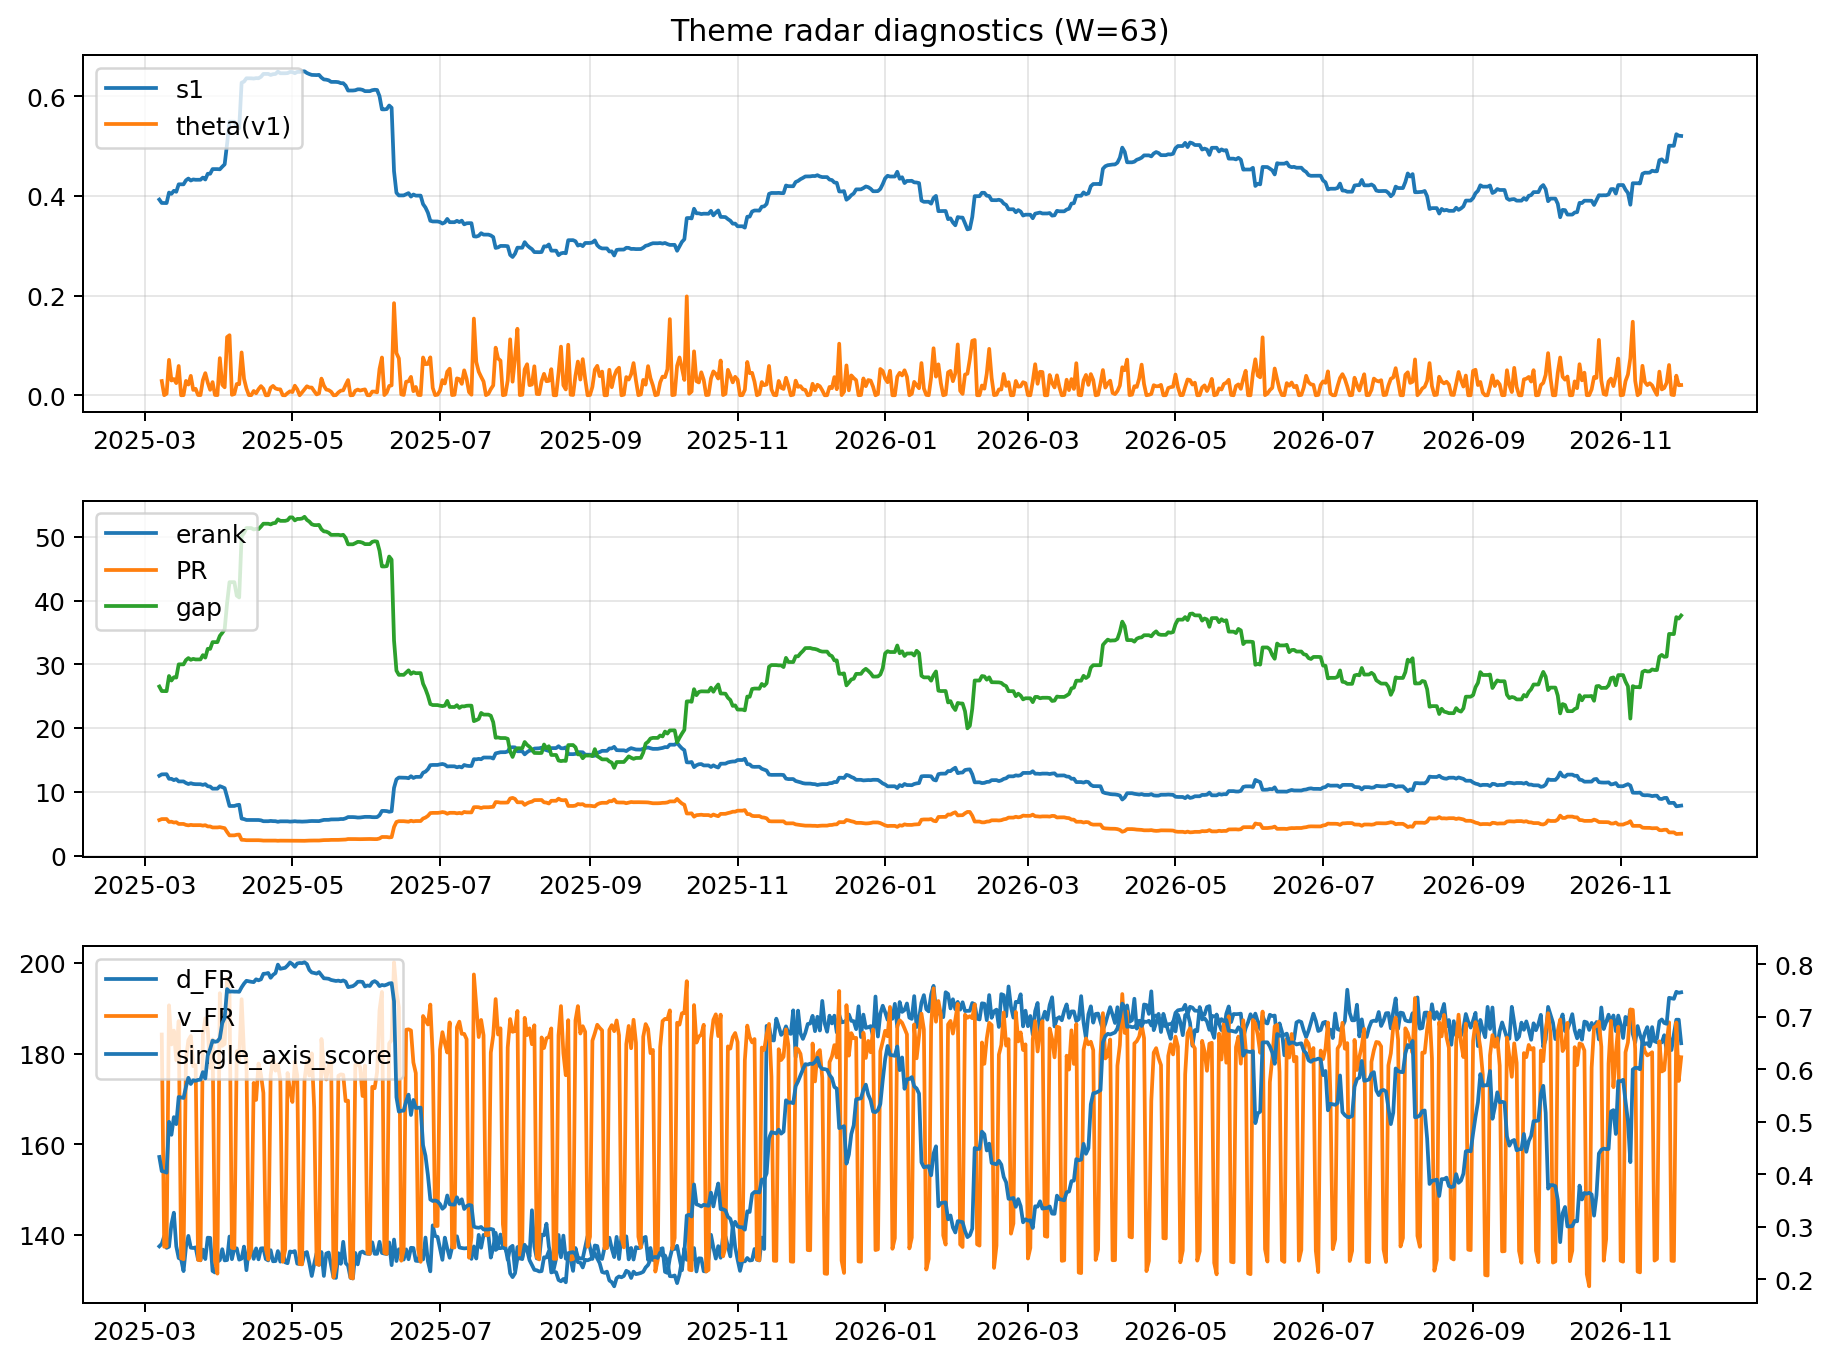
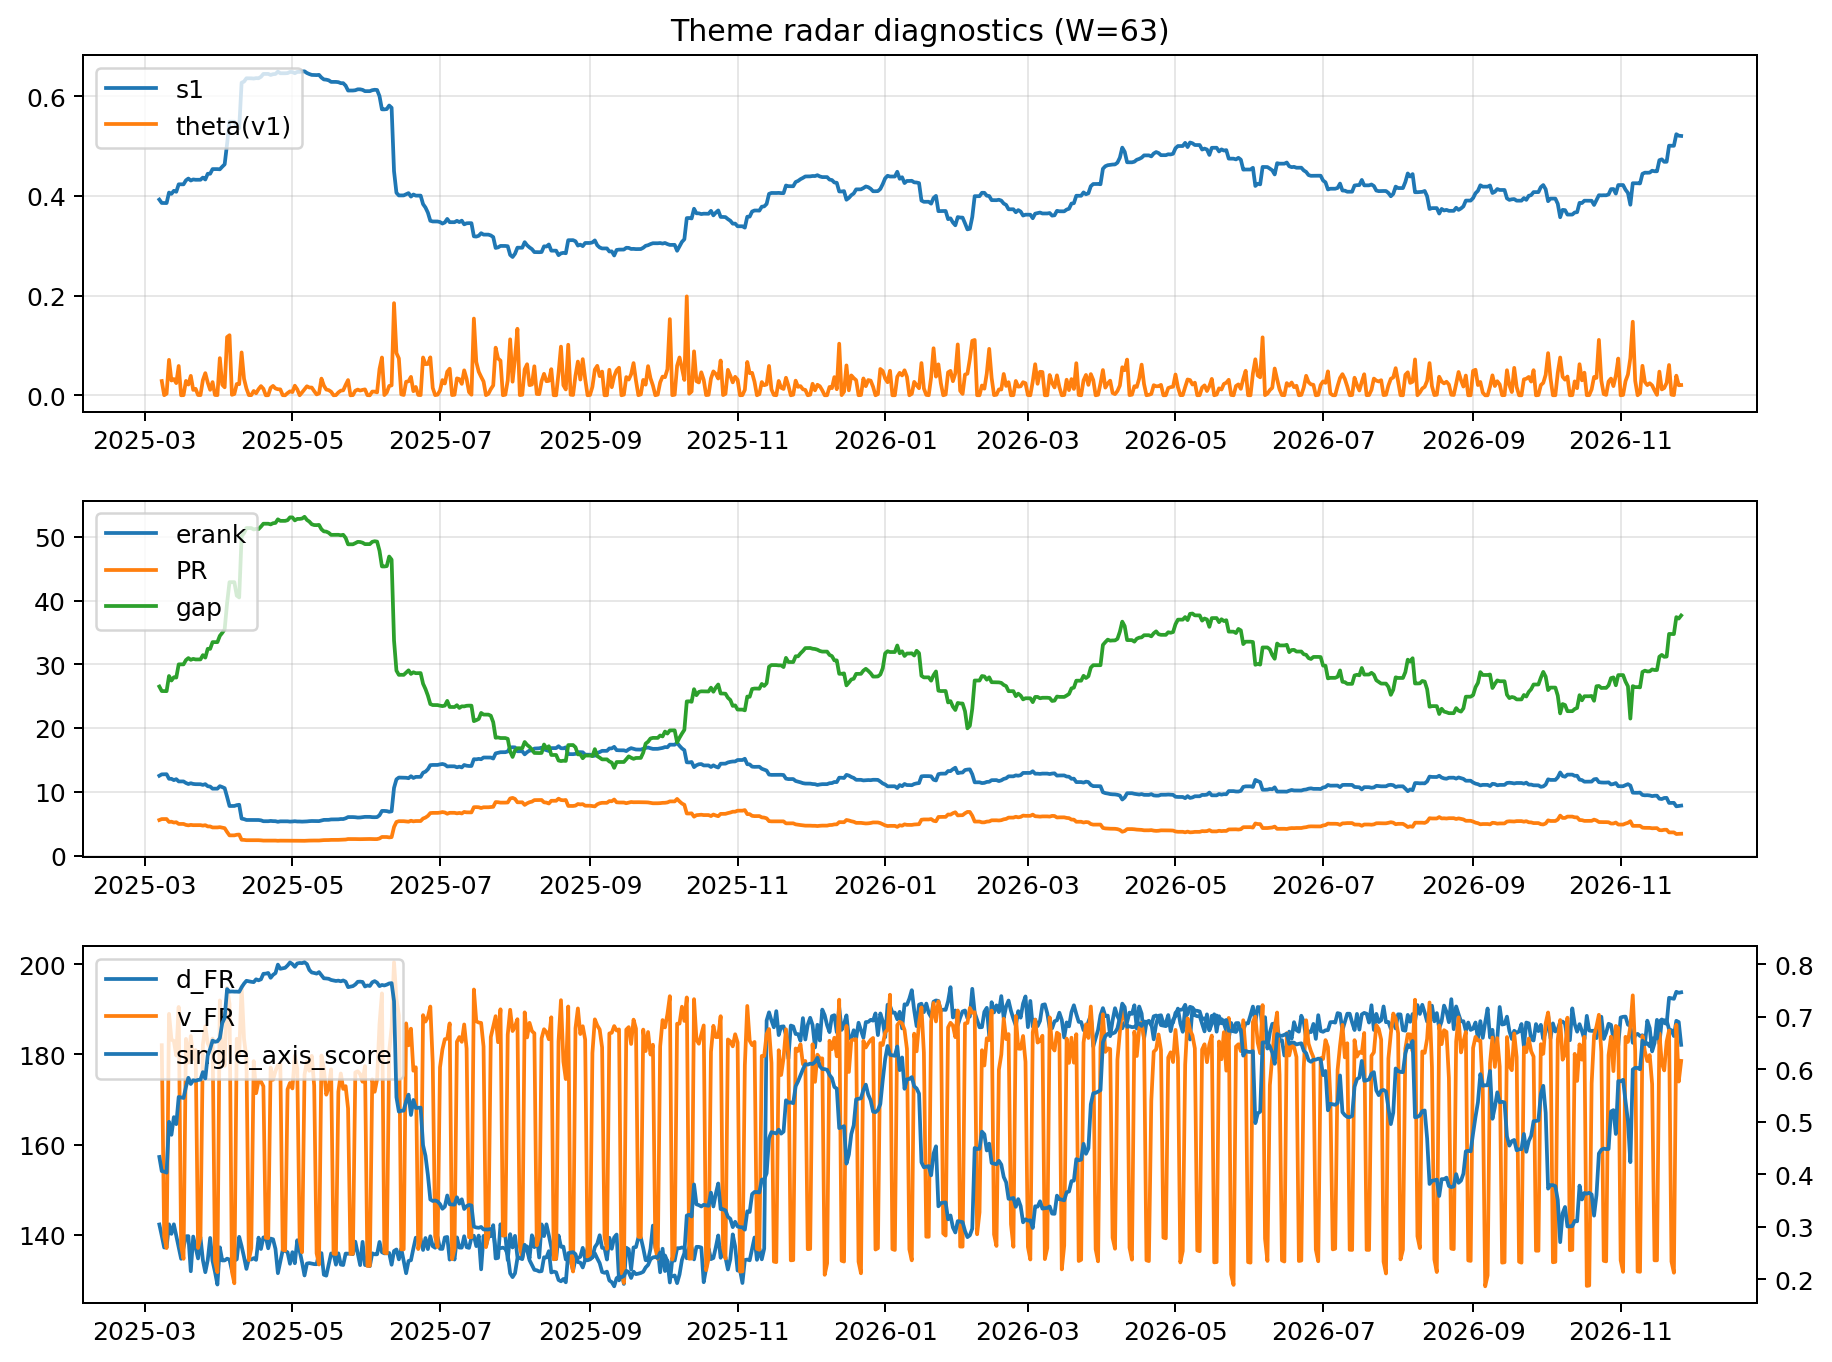
log: 2026-11-26 | sha256:f21f5bd53bf001a0000aec5a89c1dcd43aabc4e8a9bd99e3f085407e688dcbc3

diff --git a/logs/2026-11-26.md b/logs/2026-11-26.md
@@ -3,43 +3,43 @@
 ![diagnostic W63](../assets/diagnostic/2026-11-26_W63.png)
 
 ## Leaders (v1) — W=63
-- **Nuclear_Uranium** (0.0794950440103956)
-- Semis (0.070229667290702)
-- Space (0.0554257173159105)
+- **Nuclear_Uranium** (0.0794950440221388)
+- Semis (0.0702296673028385)
+- Space (0.055425717315974)
 
 ## Challengers — W=63
-**v2:** Rates (0.0996262015845754), Metals (0.071127502695963), Semis (0.0633036478513598)
-**v3:** Rates (0.1221911252030146), MegaCap_AI (0.0971850236464262), Nuclear_Uranium (0.0900451934916254)
+**v2:** Rates (0.099626199785991), Metals (0.0711275002091167), Semis (0.0633036452892279)
+**v3:** Rates (0.1221911232193158), MegaCap_AI (0.0971850219217293), Nuclear_Uranium (0.090045193515707)
 
 ## Migration (20D slope) — W=63
 **Top risers:**
-- axis_Rates: 0.0006898153880675
-- axis_Software_Cloud: 0.0003515435743002
-- axis_Drones_Autonomy: 0.000313939031406
-- axis_Metals: 0.0002588716455616
-- axis_Sector_Comm: 0.0002531512806993
-- axis_Cyber: 0.0002316346691913
-- axis_MegaCap_AI: 0.0002153970900265
-- axis_Defense: 0.0001822910757066
-- axis_Sector_Materials: 0.0001743726190987
-- axis_Sector_Fin: 0.0001499556261845
+- axis_Rates: 0.0006898153767307
+- axis_Software_Cloud: 0.0003515435348988
+- axis_Drones_Autonomy: 0.000313939017111
+- axis_Metals: 0.0002588716592967
+- axis_Sector_Comm: 0.0002531512786345
+- axis_Cyber: 0.0002316346393573
+- axis_MegaCap_AI: 0.0002153970634076
+- axis_Defense: 0.0001822910662596
+- axis_Sector_Materials: 0.0001743726247306
+- axis_Sector_Fin: 0.0001499556262592
 
 **Top fallers:**
-- axis_Sector_ConsStap: -0.0001234879633547
-- axis_DataCenter_Infra: -0.0001402992149159
-- axis_Robotics: -0.0001564294615826
-- axis_Space: -0.0001812709137195
-- axis_Credit: -0.0001955795940487
-- axis_Equity_US: -0.0002044361052856
-- axis_Quantum: -0.0002390843969645
-- axis_Commodities: -0.0003398464063018
-- axis_Semis: -0.000406035036596
-- axis_Genomics_Bio: -0.0005306190367051
+- axis_Sector_ConsStap: -0.0001234879695812
+- axis_DataCenter_Infra: -0.0001402992113504
+- axis_Robotics: -0.0001564294757814
+- axis_Space: -0.0001812709371226
+- axis_Credit: -0.0001955791177167
+- axis_Equity_US: -0.0002044361315105
+- axis_Quantum: -0.0002390844326249
+- axis_Commodities: -0.0003398464034672
+- axis_Semis: -0.0004060350842451
+- axis_Genomics_Bio: -0.0005306190759611
 
 ## Risk line (W=63)
-- s1: 0.5202387679370912
-- theta_v1: 0.0205413815791625
-- v_FR: 179.1995097779859
+- s1: 0.5202387679355931
+- theta_v1: 0.0205413708337516
+- v_FR: 178.5777257302031
 - single_axis_score: 0.7463492063492063
 
 ## Interpretation
@@ -48,7 +48,7 @@
 - Action: Tomorrow watchlist: Rates, Software_Cloud, Drones_Autonomy, Metals, Sector_Comm + v2_top1=Rates
 - Action: Hedge note: normal correlation stability.
 
-- Percentiles (W=63 history): vfr_pct=0.44, theta_pct=0.51, s1_pct=0.89, score_pct=0.89.
+- Percentiles (W=63 history): vfr_pct=0.42, theta_pct=0.51, s1_pct=0.89, score_pct=0.89.
 
 ---
[2 lines of base64/hex data omitted]
